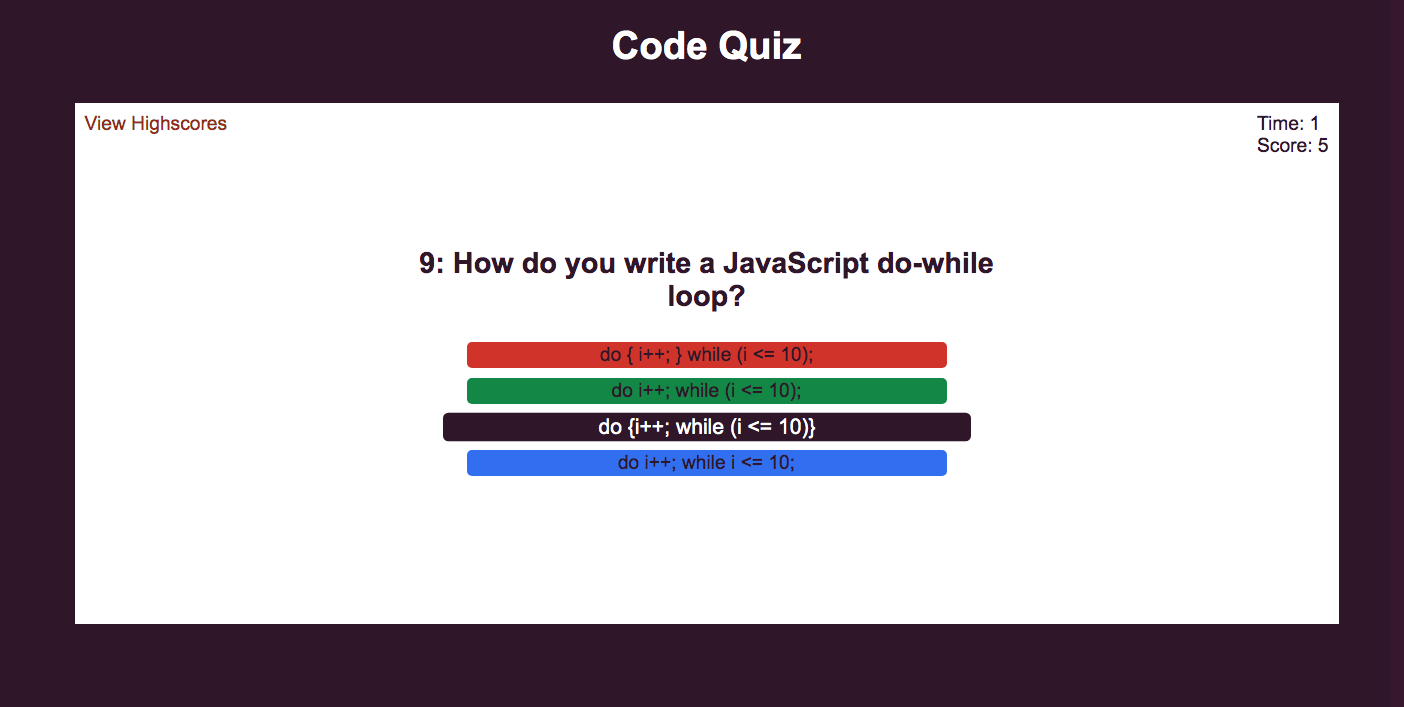
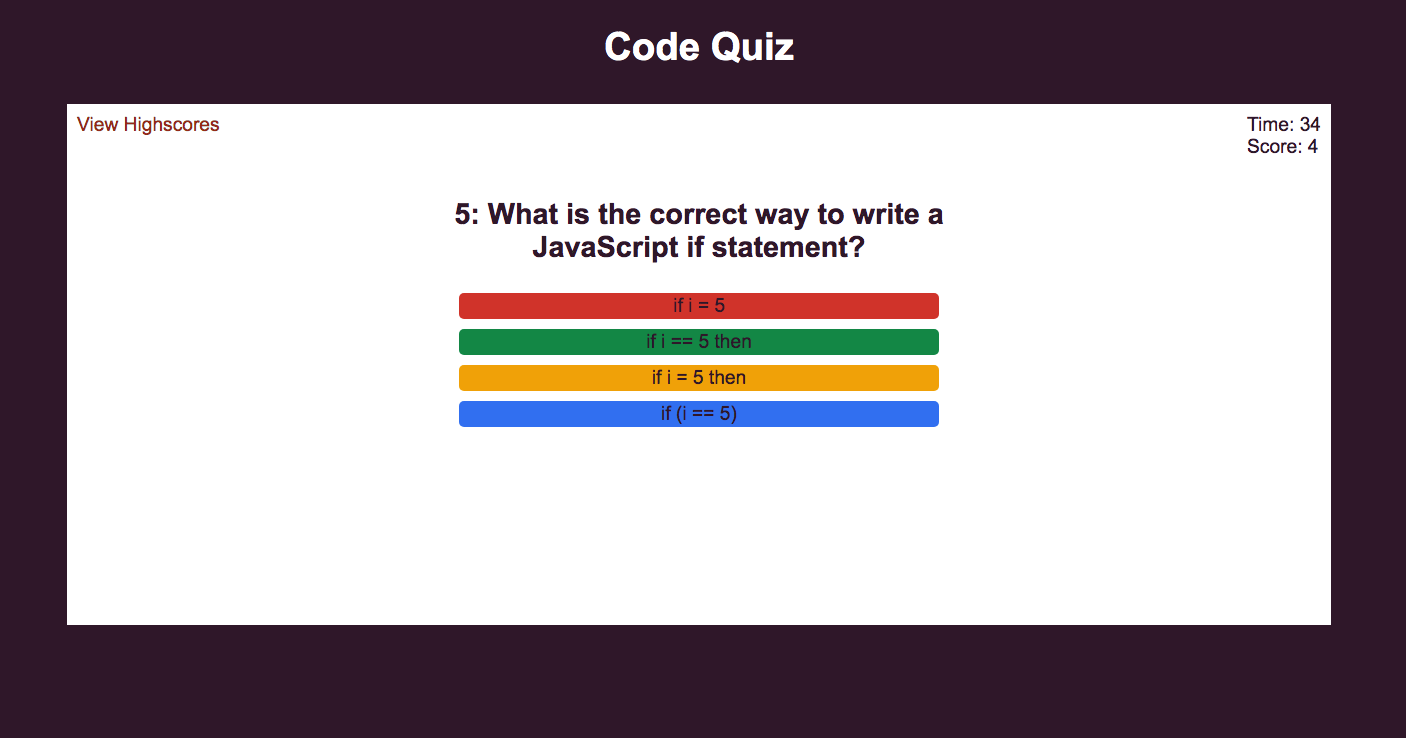
Added updated screenshots.

Changed region(s): [[0.2756, 0.2801, 0.7044, 0.6846], [0.0306, 0.1245, 0.9801, 0.9024], [0.4288, 0.0311, 0.5819, 0.0934]]

diff --git a/README.md b/README.md
@@ -34,6 +34,9 @@
 Working version of site should look like this at standard screen size:
 ![Site Screenshot](./assets/screenshot.png)
 
+New and improved performance feedback page after each attempt:
+![Site Screenshot](./assets/screenshot-data.png)
+
 ### Scope and Purpose
 
 Build an interactive coding quiz with a series of multiple choice questions. The quiz should track the user's score, allow them to click a button to select their answer, and also track the time they have left. Finally, the user should be able to save their score to a high score page, and reset all stored scores on click of a clear button.
